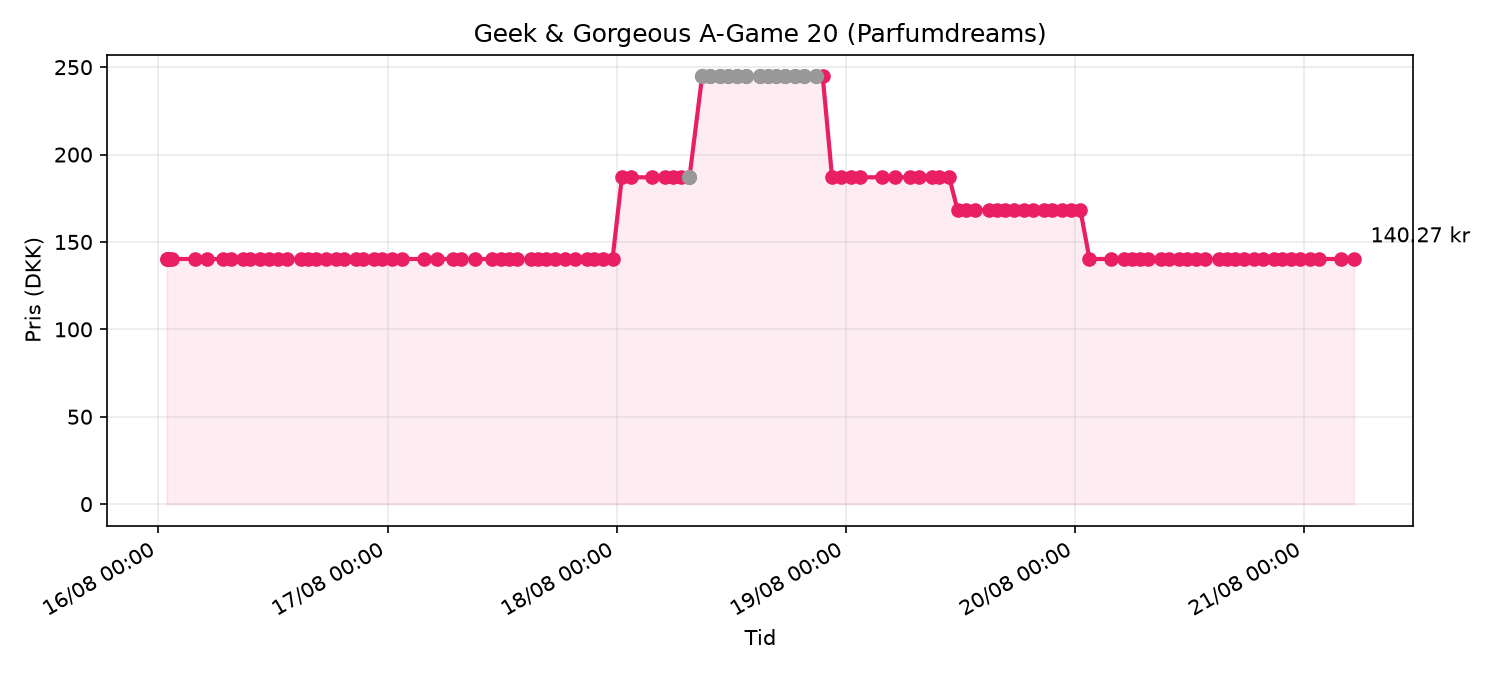
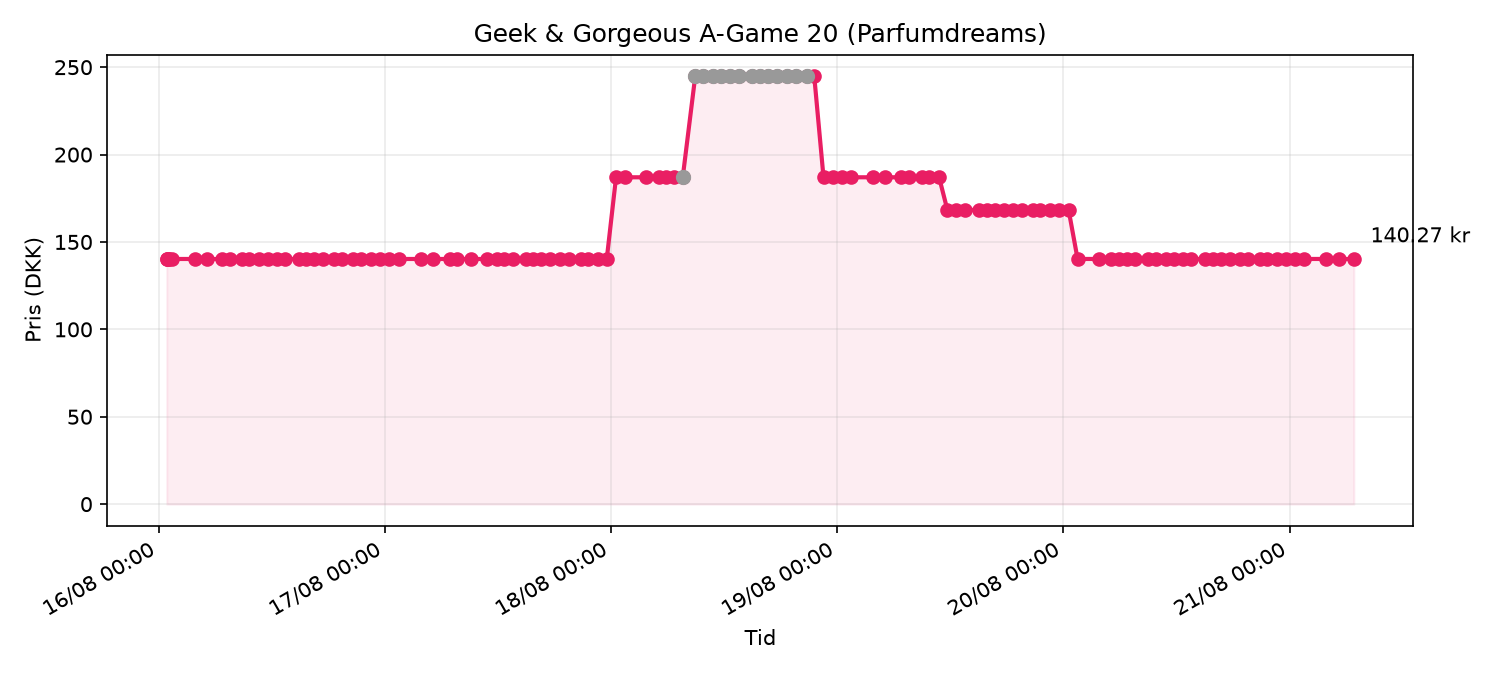
price check 2026-08-21T04:48Z

diff --git a/data/price_chart.html b/data/price_chart.html
@@ -13,7 +13,7 @@
 </head>
 <body>
   <h1>Geek & Gorgeous A-Game 20 (Parfumdreams)</h1>
-  <p class="meta">Senest tjekket: 21/08/2026 05:11 · Pris: <strong>140.27 kr</strong> · på lager</p>
+  <p class="meta">Senest tjekket: 21/08/2026 06:48 · Pris: <strong>140.27 kr</strong> · på lager</p>
   
   <p><a href="https://www.parfumdreams.dk/Geek-Gorgeous/Samlinger/101-aktive-stoffer/A-Game-20-Serum/index_137083.aspx?variation=221879">Åbn produkt på Parfumdreams</a></p>
   <img src="price_chart.png" alt="Prisgraf">
